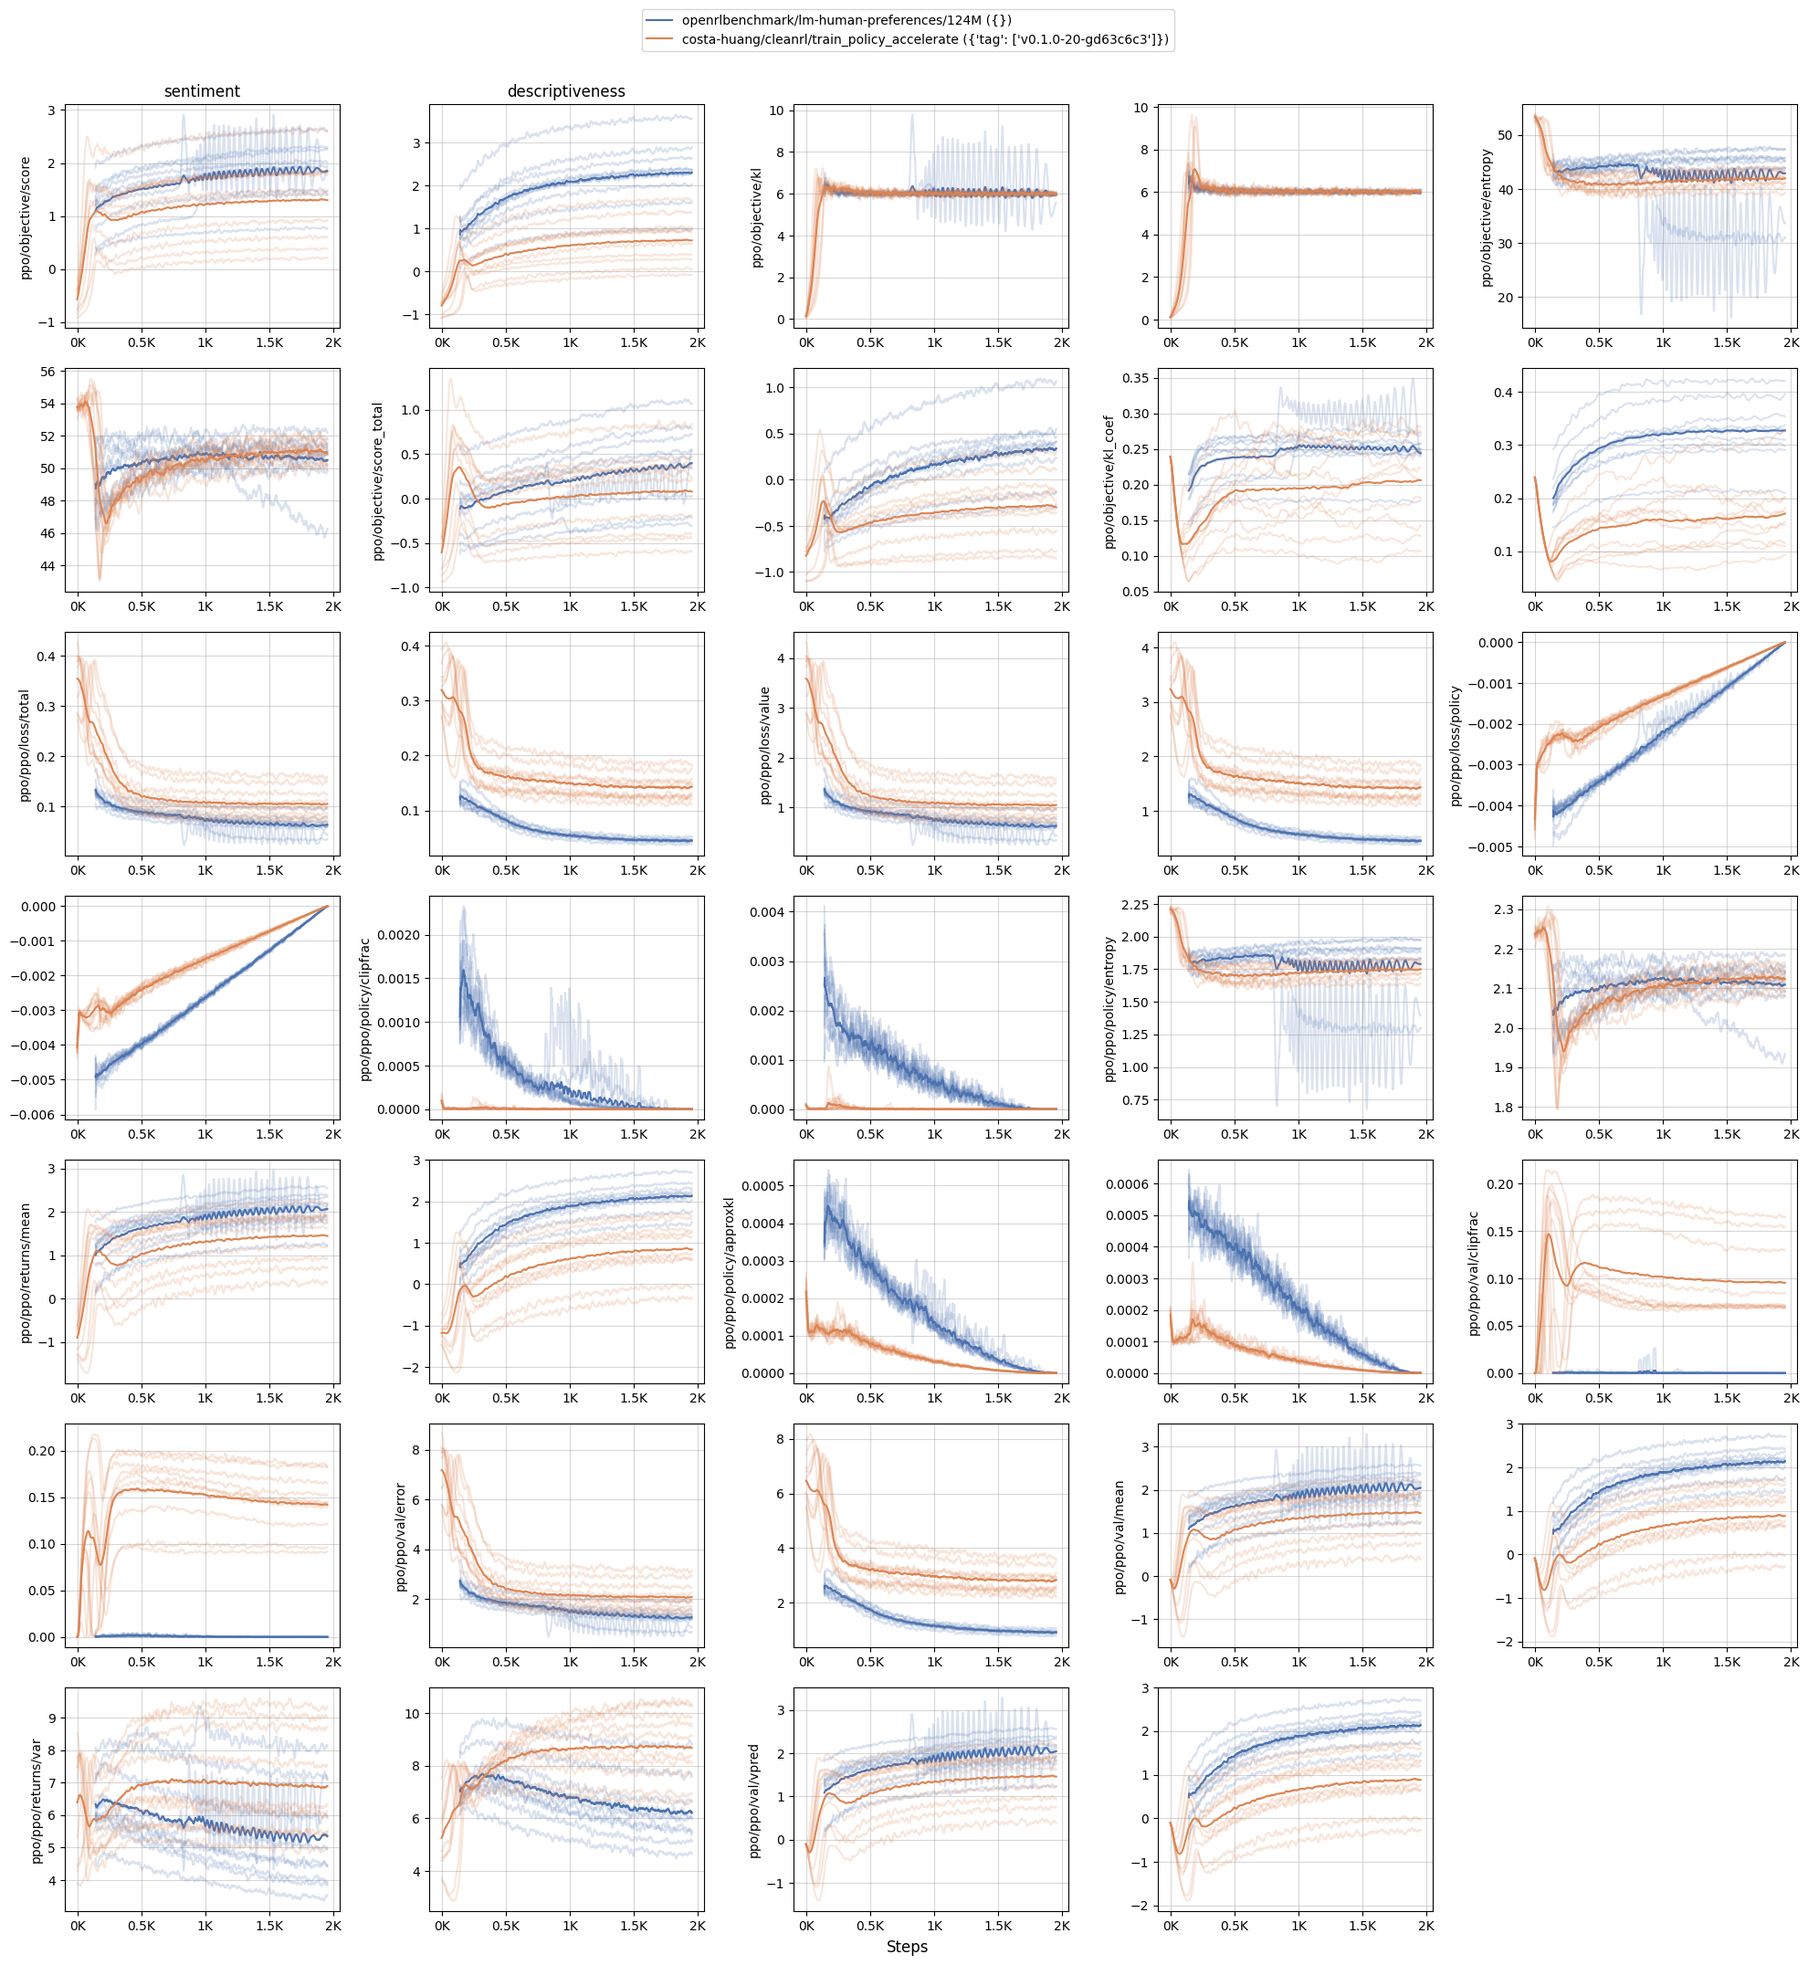
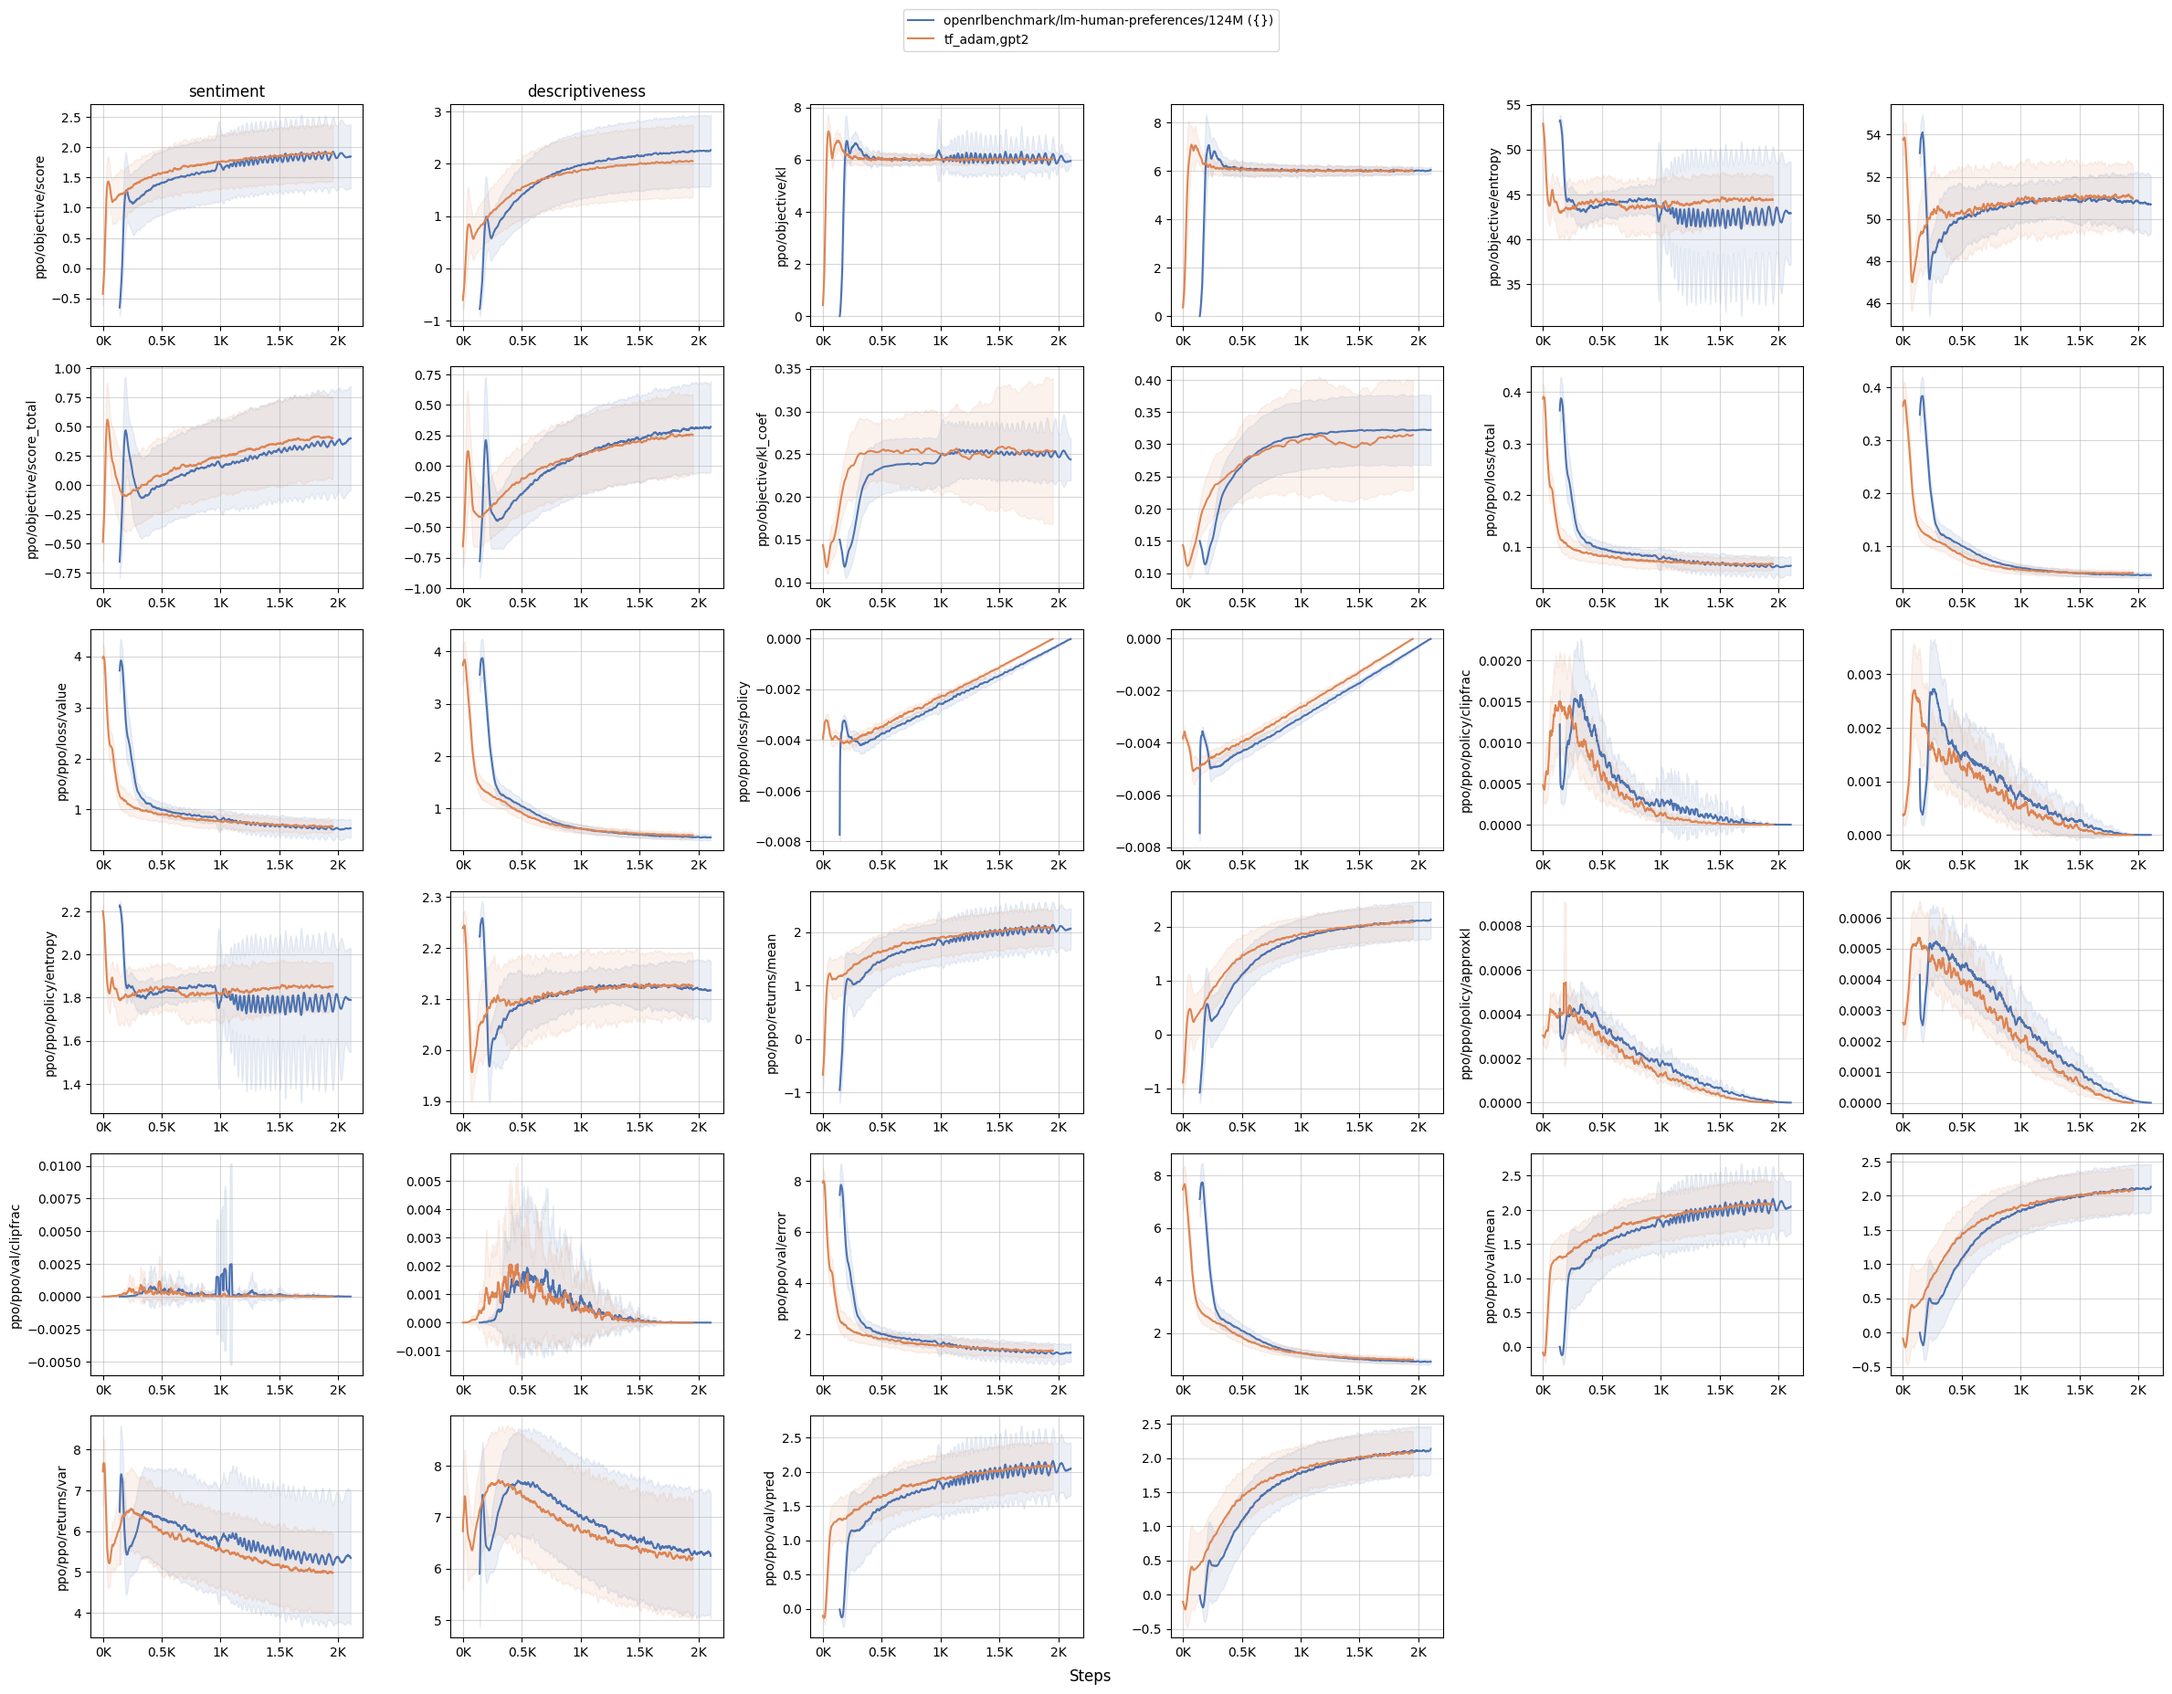
update docs

Changed region(s): [[0.0, 0.0307, 1.0, 0.9833], [0.3697, 0.0, 0.647, 0.0307], [0.4929, 0.9833, 0.5237, 1.0]]

diff --git a/README.md b/README.md
@@ -46,33 +46,30 @@ accelerate launch \
 
 ## Current status
 
-Currently for a reproduction, I used the same dataset, same data processing pipeline, same initial model architecture and weights (`gpt2` 124M pretrained model). Hyperparameters are exactly the same except for the adam optimizer's `eps` which I used `5e-4` instead of `1e-5` for better stability
+Currently for a reproduction, I used the same dataset, same data processing pipeline, same initial model architecture and weights (`gpt2` 124M pretrained model). Hyperparameters are exactly the same.
 
 The following charts shows the learning curves of various metrics for `sentiment` and `descriptiveness` tasks, each with 10 random seeds.
-
-
->**Warning** Notice how my reproduction in `sentiment` has lower `entropy` and has lower `score` in `descriptiveness`. It may be related to subtle issues with the optimizer's setting. See https://github.com/pytorch/pytorch/issues/104857#issuecomment-1635068659
-
 
 ```
 pip install openrlbenchmark==0.2.1a4
 python -m openrlbenchmark.rlops_multi_metrics \
-    --filters '?we=openrlbenchmark&wpn=lm-human-preferences&ceik=task_id&cen=task.value.policy.initial_model&metrics=ppo/objective/score&metrics=ppo/objective/kl&metrics=ppo/objective/entropy&metrics=ppo/objective/score_total&metrics=ppo/objective/kl_coef&metrics=ppo/ppo/loss/total&metrics=ppo/ppo/loss/value&metrics=ppo/ppo/loss/policy&metrics=ppo/ppo/policy/clipfrac&metrics=ppo/ppo/policy/entropy&metrics=ppo/ppo/returns/mean&metrics=ppo/ppo/policy/approxkl&metrics=ppo/ppo/val/clipfrac&metrics=ppo/ppo/val/error&metrics=ppo/ppo/val/mean&metrics=ppo/ppo/returns/var&metrics=ppo/ppo/val/vpred' \
+    --filters '?we=openrlbenchmark&wpn=lm-human-preferences&xaxis=_step&ceik=task_id&cen=task.value.policy.initial_model&metrics=ppo/objective/score&metrics=ppo/objective/kl&metrics=ppo/objective/entropy&metrics=ppo/objective/score_total&metrics=ppo/objective/kl_coef&metrics=ppo/ppo/loss/total&metrics=ppo/ppo/loss/value&metrics=ppo/ppo/loss/policy&metrics=ppo/ppo/policy/clipfrac&metrics=ppo/ppo/policy/entropy&metrics=ppo/ppo/returns/mean&metrics=ppo/ppo/policy/approxkl&metrics=ppo/ppo/val/clipfrac&metrics=ppo/ppo/val/error&metrics=ppo/ppo/val/mean&metrics=ppo/ppo/returns/var&metrics=ppo/ppo/val/vpred' \
         '124M' \
-    --filters '?we=costa-huang&wpn=cleanrl&ceik=rewards.value.label_dataset&cen=exp_name&metrics=objective/scores&metrics=objective/kl&metrics=objective/entropy&metrics=objective/score_total&metrics=objective/kl_coef&metrics=ppo/loss/total&metrics=ppo/loss/value&metrics=ppo/loss/policy&metrics=ppo/policy/clipfrac&metrics=ppo/policy/entropy&metrics=ppo/returns/mean&metrics=ppo/policy/approxkl&metrics=ppo/val/clipfrac&metrics=ppo/val/error&metrics=ppo/val/mean&metrics=ppo/returns/var&metrics=ppo/val/vpred' \
-        'train_policy_accelerate?tag=v0.1.0-20-gd63c6c3' \
+    --filters '?we=openrlbenchmark&wpn=lm_human_preference_details&xaxis=_step&ceik=rewards.value.label_dataset&cen=exp_name&metrics=objective/scores&metrics=objective/kl&metrics=objective/entropy&metrics=objective/score_total&metrics=objective/kl_coef&metrics=ppo/loss/total&metrics=ppo/loss/value&metrics=ppo/loss/policy_avg&metrics=ppo/policy/clipfrac_avg&metrics=ppo/policy/entropy_avg&metrics=ppo/returns/mean&metrics=ppo/policy/approxkl_avg&metrics=ppo/val/clipfrac_avg&metrics=ppo/val/error&metrics=ppo/val/mean&metrics=ppo/returns/var&metrics=ppo/val/vpred' \
+        'train_policy_accelerate?tag=v0.1.0-58-g4f42012&tag=tf_adam&tag=gpt2&cl=tf_adam,gpt2' \
     --env-ids sentiment descriptiveness \
     --env-ids sentiment/offline_5k.json  descriptiveness/offline_5k.json \
     --no-check-empty-runs \
-    --pc.ncols 5 \
+    --pc.ncols 6 \
     --pc.ncols-legend 1 \
     --output-filename static/0compare \
-    --scan-history --report
+    --scan-history  --report
+# (optionally) you can add `--report`` to generate wandb report
 ``` 
 ![](static/ours1.png)
 
 
-Wandb report is availible at https://wandb.ai/costa-huang/cleanrl/reports/Regression-Report-train_policy_accelerate--Vmlldzo0ODk0MjM2. Feel free to check out the logs of the runs for sample outputs.
+Wandb report is availible at https://wandb.ai/costa-huang/cleanrl/reports/Regression-Report-train_policy_accelerate--Vmlldzo1MTEwMzQw. Feel free to check out the logs of the runs for sample outputs.
 
 ![](static/wandb.png)
 
@@ -99,22 +96,26 @@ Wandb report is availible at https://wandb.ai/costa-huang/cleanrl/reports/Regres
     kl = +11.00
     total = +0.55
     ```
-* https://wandb.ai/costa-huang/cleanrl/runs/fu902lyc/logs
+* https://wandb.ai/openrlbenchmark/lm_human_preference_details/runs/38v19l2k
     * 
     ```
-    query: he was quiet for a minute, his eyes unreadable.
-    response: " I'm so glad you're here. It's been a long time since we've known each other.
-    score: 0.5942718982696533, kl: 7.33388090133667, total reward: -0.45726191997528076
+    29676 query: `` you know who the bassist for the red hot chili peppers is? ''
+    29677 response:  I got a couple of bucks for a half of what I was selling and we were 
+    29678 pretty happy.
+    29681 score: 1.7029974460601807, kl: 2.753568410873413, total reward: 
+    29682 1.2474089860916138 
 
-    query: she knew she shouldn't, but she reached out to capture that particular hand
-    before he could go.
-    response: That was all that mattered.
-    "I'm glad to see you're happy," she said.
-    score: 2.0057406425476074, kl: 6.900775909423828, total reward: 1.025254249572754
 
-    query: she offered a tense shrug before reaching for the door handle.
-    response: "We're going to be fine," he said, "and we're going to be okay.
-    score: 0.9820655584335327, kl: 7.899775505065918, total reward: -0.15402913093566895
+    29754 query: `` it means, '' he said, `` that we 'll keep you. ''
+    29755 response: This means that we can get the ship that we want to build from the ground up.
+    29760 score: 1.8134586811065674, kl: 5.874235153198242, total reward: 
+
+    29770 query: i stuffed a french fry in my mouth, feeling a little bummed about the current 
+    29771 situation and kicking myself for not staying totally away from him in the first 
+    29772 place.
+    29773 response: I'm genuinely happy with my stay here with no regret. I love my 
+    29774 sister, she is amazing.
+    29777 score: 2.78997802734375, kl: 5.462193965911865, total reward: 1.8888899087905884
     ```
 
 
@@ -140,24 +141,18 @@ Wandb report is availible at https://wandb.ai/costa-huang/cleanrl/reports/Regres
     kl = +9.55
     total = +1.68
     ```
-* https://wandb.ai/costa-huang/cleanRL/runs/e75dhls2/logs
+* https://wandb.ai/openrlbenchmark/lm_human_preference_details/runs/e3rysbw8
     * 
     ```
-    query: `` you really don't think i can do it, '' i said, trying not to sound stung.
-    response: had to kneel down to take a deep breath, her hand wrapped around her waist. her
-    face was red with tears
-    score: -1.0, kl: 8.85654354095459, total reward: -2.0279948711395264
+    30052 query: she shivered.
+    30053 response: She looked up at the old man who had lain with her, and he gave her a
+    30054 kiss.
+    30058 score: 2.936002731323242, kl: 3.442370891571045, total reward: 1.6455250978469849 
 
-    query: it's ridiculous for someone with your pedigree to go to art school.
-    response:  And if Mikan has any problems with this, he has to be kidding himselfWhat's in
-    the Water at Su
-    score: -1.0, kl: -4.508945465087891, total reward: -0.47910648584365845
-    
-    query: jimmy was on the back seat of his truck.
-    response:  His lips were furrowed and his lips were still furrowed. He was dressed in a
-    white coat.
-    score: 1.3276370763778687, kl: 7.90595006942749, total reward:
-    0.41623085737228394
+    30023 query: asked jason with frustration apparent in his strained voice.
+    30024 response: He was dressed in a suit and tie with a white button down shirt
+    30025 and a white knitted hat.
+    30028 score: 4.891026973724365, kl: 10.192875862121582, total reward: 1.0853893756866455 
     ```
 
 ## Learning curves of `openai/lm-human-preferences`
